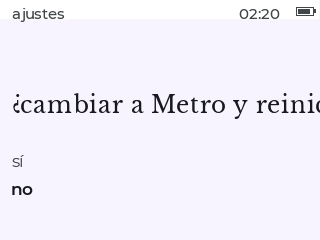
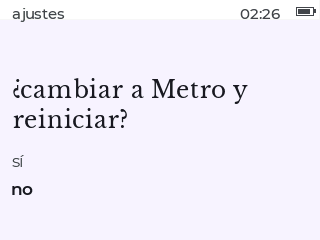
fix: confirm dialog wraps the question on two lines when it does not fit (D-047, ported from Metro M-093)
Claude-Session: https://claude.ai/code/session_014pSkEsTw3NUPb9BwGkPE11

Changed region(s): [[0.0312, 0.3208, 1.0, 0.5542], [0.75, 0.0292, 0.875, 0.0875]]

diff --git a/firmware/rockbox/apps/metro/metro_widgets.c b/firmware/rockbox/apps/metro/metro_widgets.c
@@ -18,6 +18,7 @@
  *
  ****************************************************************************/
 #include <stdio.h>
+#include <string.h>
 #include "kernel.h"
 #include "misc.h"
 #include "lcd.h"
@@ -29,6 +30,63 @@
 #include "metro_input.h"
 #include "metro_lang.h"
 #include "metro_fb.h"
+#include "moonlit_fonts.h"
+
+#define CONFIRM_QUESTION_X 12
+#define CONFIRM_QUESTION_Y 90
+#define CONFIRM_YES_Y      150
+
+/* moonlit (D-047, ported from Metro M-093): the question used to be one line at MFONT_TITLE, which held
+ * "¿cambiar a Aura y reiniciar?" but not "¿cambiar a moonlit.aura y
+ * reiniciar?". When it does not fit, break it at the last space that
+ * does and draw two lines, centred on the single-line baseline so the
+ * block still ends above "sí"/"no". Never more than two lines: every
+ * question in the catalogue fits in two at 320 px, and a third would
+ * run into the answers. */
+static void draw_question(const char *question)
+{
+    static char head[96];
+    int w, h, max_w = LCD_WIDTH - 2 * CONFIRM_QUESTION_X;
+    const char *tail;
+    size_t cut;
+
+    lcd_setfont(metro_font_id(MFONT_TITLE));
+    lcd_getstringsize((const unsigned char *)question, &w, &h);
+    if (w <= max_w)
+    {
+        metro_draw_text(MFONT_TITLE, CONFIRM_QUESTION_X, CONFIRM_QUESTION_Y,
+                         question, metro_color_fg());
+        return;
+    }
+
+    /* Longest head ending at a space that fits. */
+    cut = 0;
+    for (tail = question; (tail = strchr(tail, ' ')) != NULL; tail++)
+    {
+        size_t n = (size_t)(tail - question);
+        if (n >= sizeof(head))
+            break;
+        memcpy(head, question, n);
+        head[n] = '\0';
+        lcd_getstringsize((const unsigned char *)head, &w, NULL);
+        if (w > max_w)
+            break;
+        cut = n;
+    }
+    if (cut == 0)
+    {
+        /* No usable space: let the LCD clip it, as before. */
+        metro_draw_text(MFONT_TITLE, CONFIRM_QUESTION_X, CONFIRM_QUESTION_Y,
+                         question, metro_color_fg());
+        return;
+    }
+    memcpy(head, question, cut);
+    head[cut] = '\0';
+    metro_draw_text(MFONT_TITLE, CONFIRM_QUESTION_X, CONFIRM_QUESTION_Y - h / 2,
+                     head, metro_color_fg());
+    metro_draw_text(MFONT_TITLE, CONFIRM_QUESTION_X, CONFIRM_QUESTION_Y + h / 2,
+                     question + cut + 1, metro_color_fg());
+}
 
 bool metro_widgets_confirm(const char *title, const char *question)
 {
@@ -40,8 +98,8 @@ bool metro_widgets_confirm(const char *title, const char *question)
 
         metro_draw_clear();
         metro_draw_header(title);
-        metro_draw_text(MFONT_TITLE, 12, 90, question, metro_color_fg());
-        metro_draw_text(sel_yes ? MFONT_LIST_SEL : MFONT_LIST, 12, 150,
+        draw_question(question);
+        metro_draw_text(sel_yes ? MFONT_LIST_SEL : MFONT_LIST, 12, CONFIRM_YES_Y,
                          metro_lang_str(LANG_DIALOG_YES),
                          sel_yes ? metro_color_fg() : metro_color_secondary());
         metro_draw_text(!sel_yes ? MFONT_LIST_SEL : MFONT_LIST, 12, 178,
